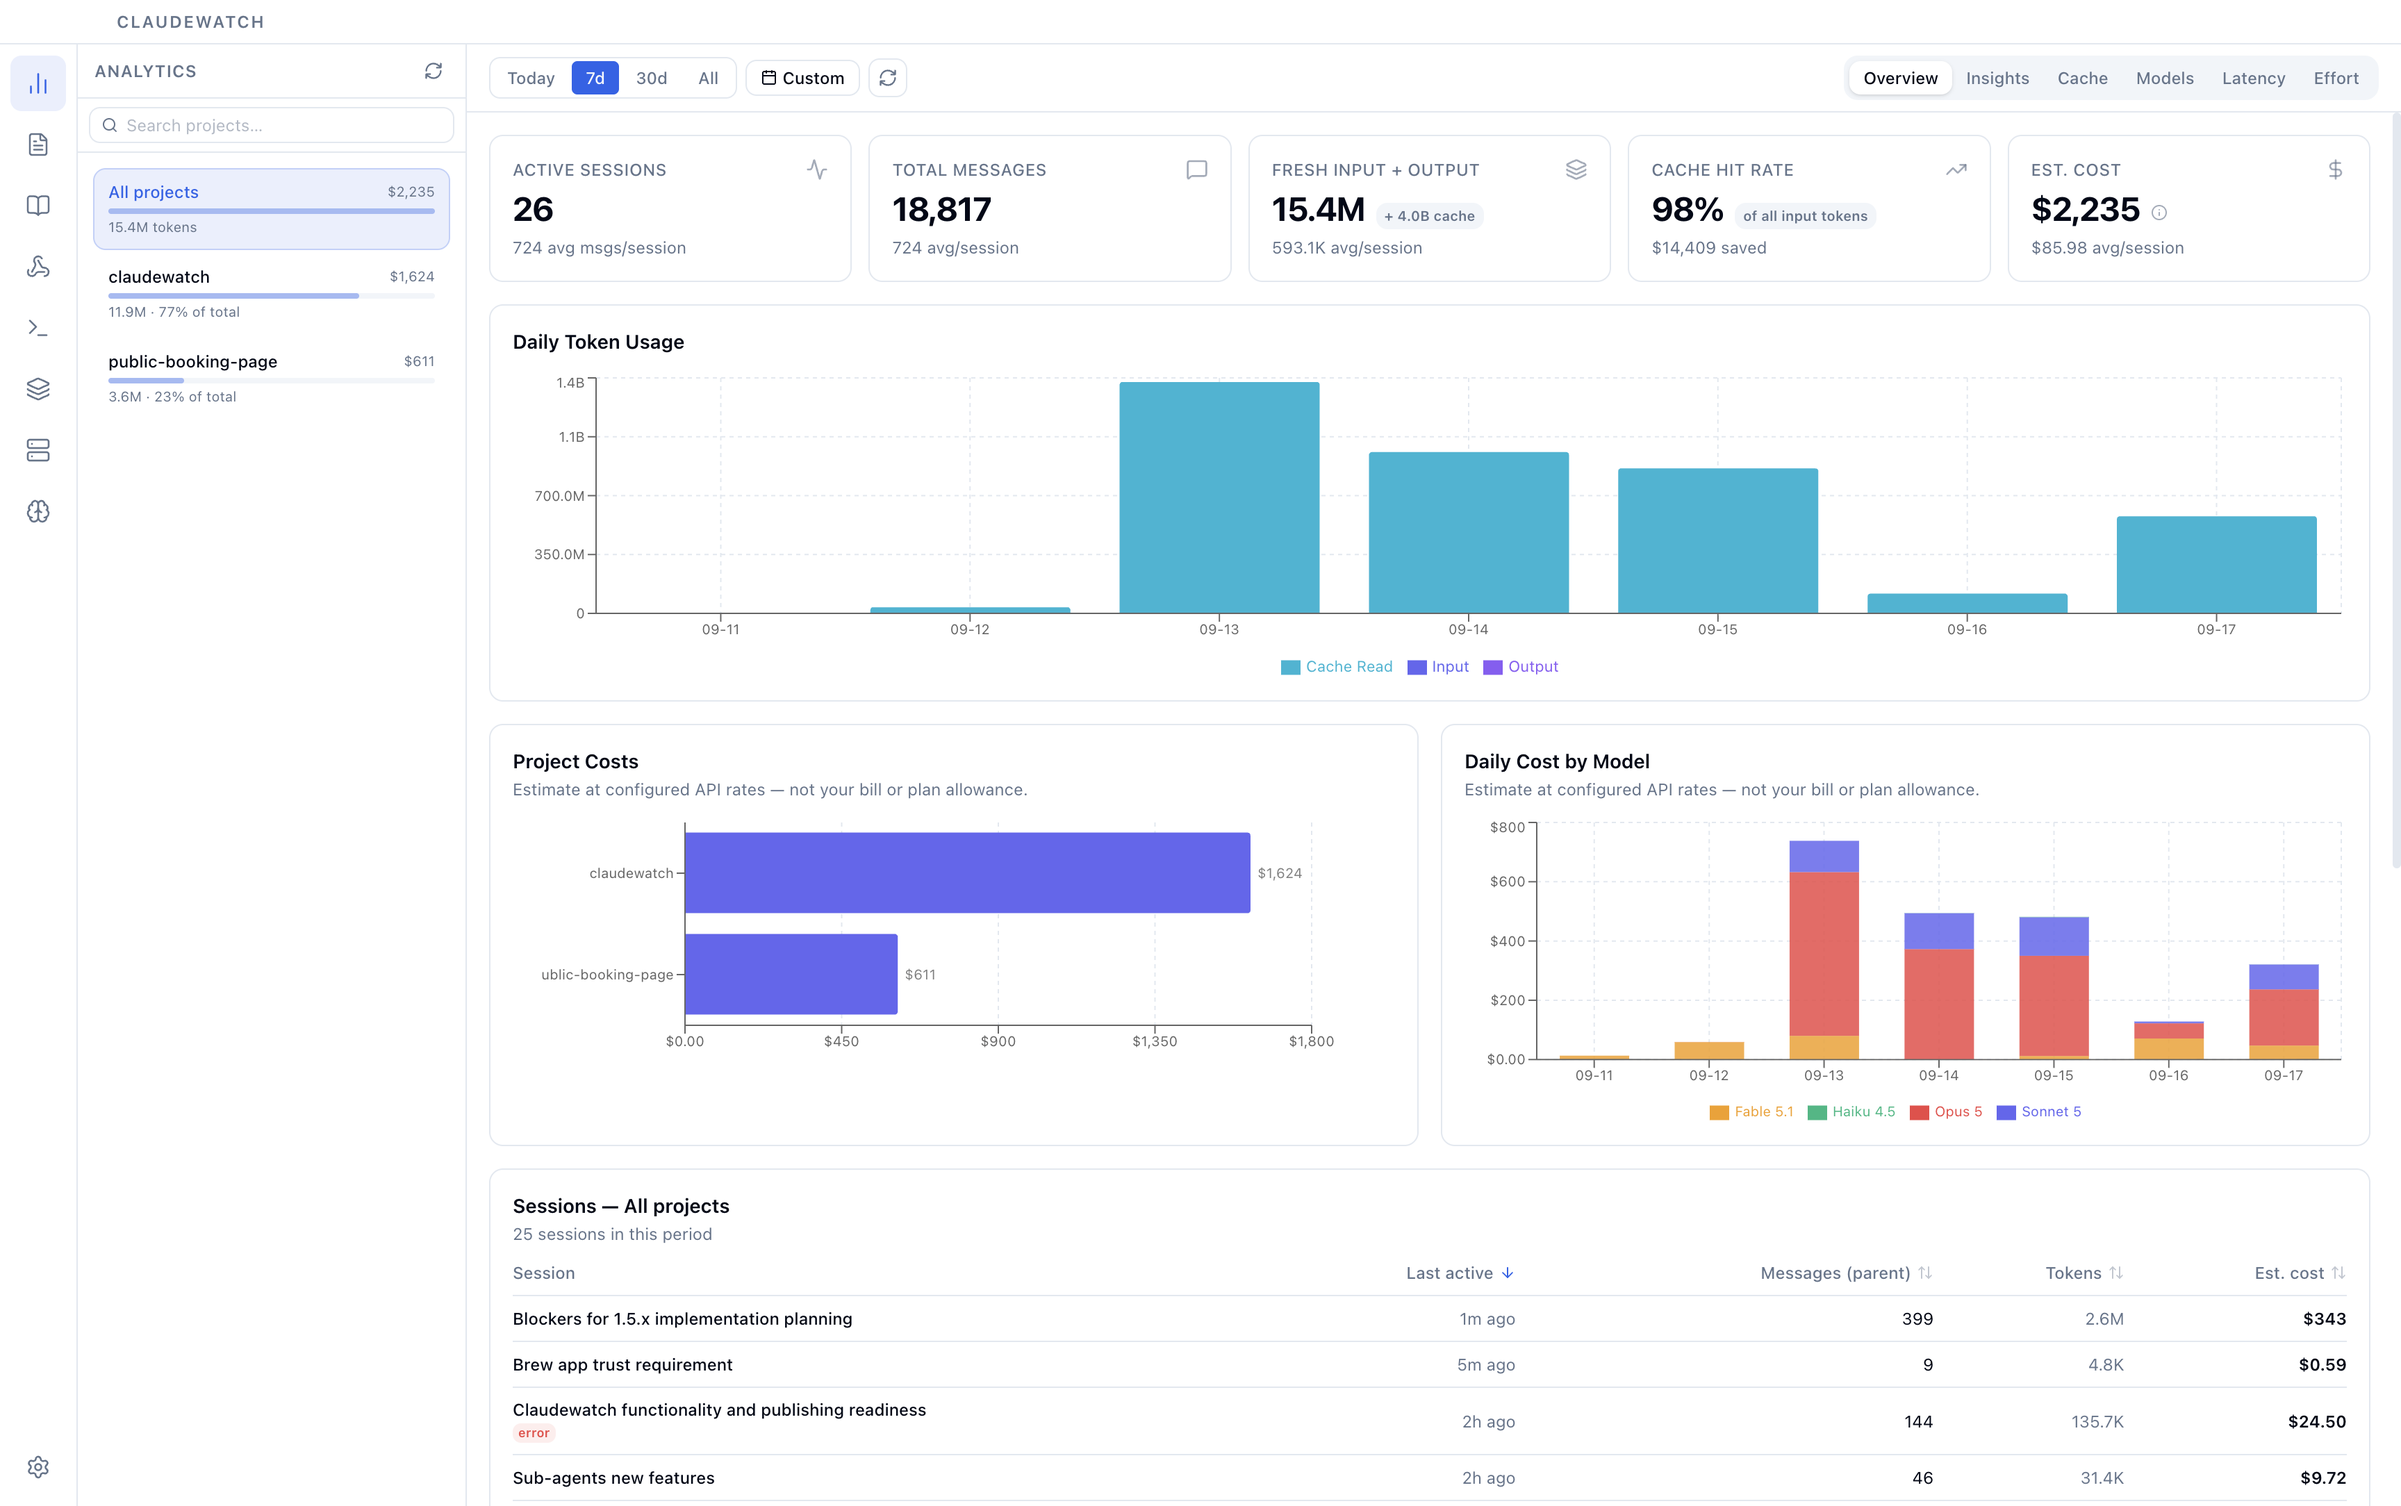
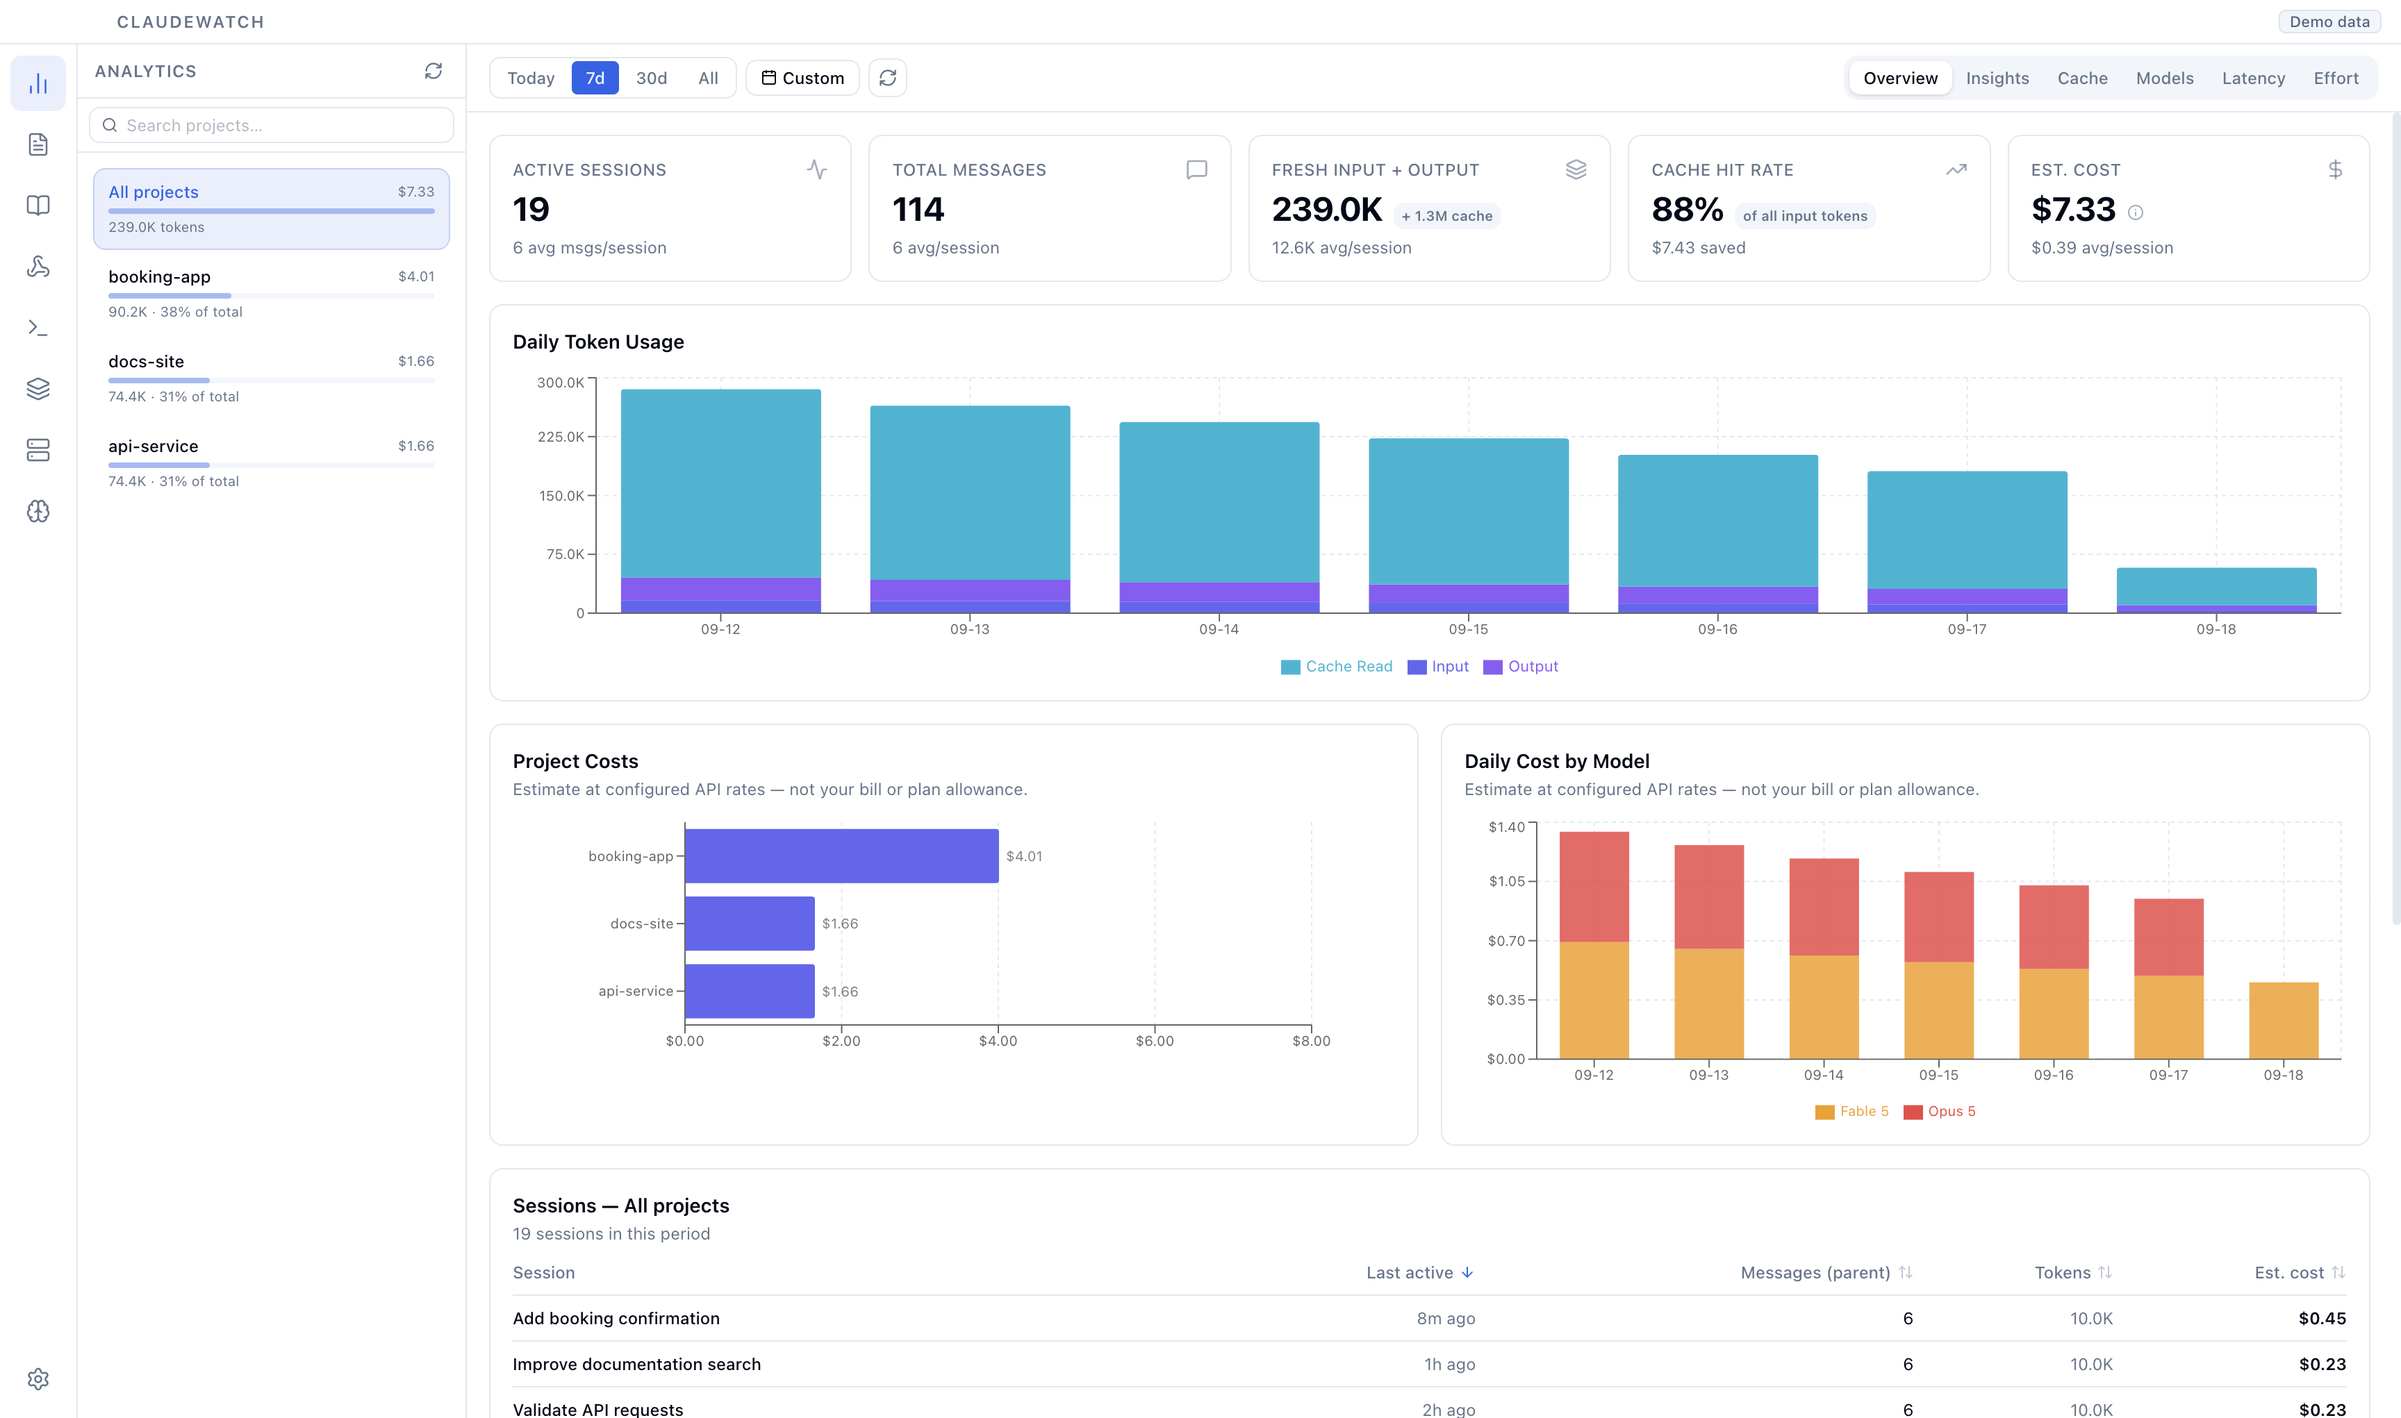
docs: use demo-data screenshots in the readme
The readme showed captures of real session history: project names,
conversation titles and spend from actual work. Every screenshot is now
taken against generated demo projects and marked "Demo data" in the
corner, so the readme shows the app without showing anyone's history.

A line above the gallery says so, since figures that small would
otherwise read as someone's real numbers.

diff --git a/README.md b/README.md
@@ -33,6 +33,8 @@ You use Claude Code every day. But do you know which sessions blew your budget? 
 
 ## Screenshots
 
+All screenshots use synthetic demo projects and conversations, not personal session history.
+
 <p align="center">
   <img src="screenshots/menu-bar.png" alt="Menu Bar Popover" width="320" />
   <br /><em>Menu bar popover — live stats at a glance</em>
